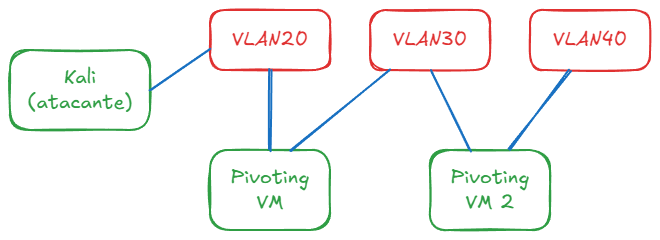
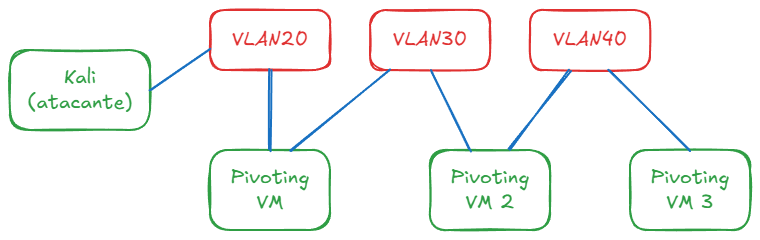
Actualización a apunte de pivoting

diff --git a/_apuntes/2025-07-31-pivoting.md b/_apuntes/2025-07-31-pivoting.md
@@ -11,10 +11,11 @@ vm: https://drive.google.com/drive/folders/10MdL2c8EpwijxsweVVdln4J5d1KG9v9v
 >**Pivoting** es el proceso de usar una máquina comprometida como trampolín para acceder a otras máquinas en la red que serían inaccesibles directamente desde la máquina atacante.
 
 # 💻Práctica
-**Preámbulo**
-Para esta práctica, partimos de las siguientes máquinas:
-- **Pivoting VM** (Credenciales ubuntu/ubuntu)
-- **Pivoting VM 2**
+>[!note] **Preámbulo**:
+>Para esta práctica, partimos de las siguientes máquinas:
+>🔹 **Pivoting VM** (Credenciales ubuntu/ubuntu)
+> 🔹**Pivoting VM 2** (Credenciales ubuntu/Pivoting2341)
+> 🔹**Pivoting VM 3** (Credenciales ubuntu/3412Pivoting)
 
 La idea es simular un entorno como el siguiente
 
@@ -53,16 +54,20 @@ ssh <user>@Ip_proxy -p X -R IpPivoting1:PuertoPiv1:IpLocal:4444
 >Durante esta práctica se lanzarán comandos desde terminales distintas (todas alojadas en la **Kali**). Por favor leer los comentarios adjuntos en cada comando para saber en qué terminal deben ir.
 
 ## 🔎Etapa 1: Reconocimiento de Pivoting VM
+>[!question] Qué terminales hay que tener abiertas antes de comenzar?:
+>→ **Kali** para todos los comandos relacionados a la Kali
+
 
 Con las 3 máquinas configuradas, encendidas y funcionando, hacemos un **escaneo de red desde la terminal Kali**
 ```bash
 #Este comando se ejecuta en la terminal llamada Kali
+ip a
 sudo arp-scan -l -I eth0
 ```
 
-**En mi caso**, la IP para la máquina **Pivoting VM en la red *VLAN20*** es la `10.0.20.5`. 
+**En mi caso**, la IP para la máquina **Pivoting VM en la red *VLAN20*** es la `10.0.20.5`, y la IP de la **Kali** es `10.0.20.4`.
 
-Una vez conocida la IP, nos conectamos mediante ssh **desde la terminal SSH Piv1**
+Una vez conocida la IP, **abrimos una nueva terminal llamada SSH Piv1** donde nos conectamos mediante ssh a la **Pivoting VM**
 ```bash
 #Este comando se ejecuta en la terminal llamada SSH Piv1
 ssh ubuntu@10.0.20.5
@@ -72,14 +77,23 @@ Dentro de la máquina, nos interesa ver si está conectada a otras redes, así q
 
 ![[pivoting_ip_pivoting_vm.png]]
 
+**IPs identificadas hasta ahora**
+
+| Red     | IP          | Máquina     |
+| ------- | ----------- | ----------- |
+| VLAN20  | `10.0.20.4` | Kali        |
+| VLAN 20 | `10.0.20.5` | Pivoting VM |
+| VLAN30  | `10.0.30.4` | Pivoting VM |
 
 ## ⚙Etapa 2: Configuración de túnel
+>[!question] Qué terminales hay que tener abiertas antes de comenzar?:
+>→ **Kali** para todos los comandos relacionados a la Kali
 
 Recordemos que la **Kali** no tiene acceso directo a *VLAN30*, pero **Pivoting VM** sí. Así que el siguiente paso es crear un **túnel o proxy** que redirija el tráfico desde la **Kali** hacia *VLAN30* a través de **Pivoting VM**. 
 
 De esta manera podremos lanzar comandos desde la **Kali** pero que vayan a nombre de **Pivoting VM**. Esto será útil para **escanear la red *VLAN30***.
 
-En primer lugar, ejecutamos el comando:
+En primer lugar, **abrimos una nueva terminal llamada -D 9050** y ejecutamos el comando:
 ```bash
 #Este comando se ejecuta en la terminal llamada "-D 9050"
 ssh -D 9050 ubuntu@10.0.20.5
@@ -103,7 +117,7 @@ ls -la /etc | grep proxychain
 
 En mi caso, el archivo es `proxychains4.conf` → Consultamos este archivo con `cat` o, editamos directamente con `sudo nano` (es importante lanzarlo con `sudo` para que los cambios se guarden).
 
-**¿Qué debemos tener en el archivo?** → Las siguientes líneas deben estar **descomentadas** (que no aparezca el símbolo `#` al principio). Y en la *ProxyList* debe decir *socks5* y apuntar al puerto que abrimos anteriormente.
+**¿Qué debemos tener en el archivo?** → Las siguientes líneas deben estar **descomentadas** (que no aparezca el símbolo `#` al principio). En la *ProxyList* debe decir *socks5* y apuntar al puerto que abrimos anteriormente.
 ```
 dynamic_chain
 proxy_dns
@@ -135,12 +149,20 @@ La salida de este comando debería verse más o menos así:
 
 **SI NO ES EL CASO...**
 
+Probar con este comando
+```bash
+#Este comando se lanza desde la terminal llamada Kali
+sudo proxychains nmap -sT -Pn -n -p 20,80 10.0.30.3-20
+```
+
+**Y SI AUN ASÍ NO FUNCIONA**
+
 Hay alternativas:
 1. Utilizar otra versión de Kali (preferentemente [la máquina compartida en clase](https://drive.google.com/drive/folders/1_sv45Jutib_3Gmp228vTHdC2vdI5UayD)), y empezar desde cero el ejercicio.
 2. Cambiar la versión de `nmap` a otra más antigua que sea compatible con `proxychains`.
 3. **Usar un script que nos devuelva lo que buscamos**.
 
->[!note] Nota:
+>[!note] Consideraciones:
 >Esta etapa (configuración de túnel) es necesaria en este ejercicio porque **no conocemos la IP de Pivoting VM 2 en la *VLAN30***. 
 >Si no fuera el caso, los pasos relacionados con `proxychains` son, en esencia, opcionales, y podríamos pasar directamente a la etapa de **Pivoting**, a menos que quisiéramos ejecutar otros comandos a nombre de **Pivoting VM**.
 
@@ -199,15 +221,29 @@ chmod +x script_proxychains.sh
 
 Ahora solo queda esperar a que detecte la IP de **Pivoting VM 2**. En mi caso, la IP es `10.0.30.5`
 
+
 >[!warning] Importante:
 >Este script también nos mostrará la IP de **Pivoting VM** en la *VLAN30*, por lo cual hay que tenerlas bien identificadas.
 
 Una vez que logramos el objetivo, podemos cerrar la terminal llamada "-D 9050"
 
-## 🦘Etapa 3: Pivoting
-Ahora que conocemos la IP de **Pivoting VM 2**, podemos establecer un **túnel ssh con port forwarding** utilizando el siguiente comando:
+**IPs identificadas hasta ahora**
+
+| Red    | IP          | Máquina       |
+| ------ | ----------- | ------------- |
+| VLAN20 | `10.0.20.4` | Kali          |
+| VLAN20 | `10.0.20.5` | Pivoting VM   |
+| VLAN30 | `10.0.30.4` | Pivoting VM   |
+| VLAN30 | `10.0.30.5` | Pivoting VM 2 |
+
+
+## 🦘Etapa 3: Pivotando a Pivoting VM 2
+>[!question] Qué terminales hay que tener antes de comenzar?:
+>→ **Kali** para todos los comandos relacionados a la Kali
+
+Ahora que conocemos la IP de **Pivoting VM 2**, podemos establecer un **túnel ssh con port forwarding**, para lo cual **abrimos una nueva terminal llamada -L Piv2**, y lanzamos el siguiente comando:
 ```bash
-#Este comando se lanza desde la terminal llamada "-L PIV2"
+#Este comando se lanza desde la terminal llamada "-L Piv2"
 ssh ubuntu@10.0.20.5 -L 2222:10.0.30.5:22
 ```
 🔹 **Donde:**
@@ -230,9 +266,155 @@ En otras palabras, el comando da la siguiente instrucción:
 
 **¿Qué conseguimos con esto?** → Exponer el servicio SSH de **Pivoting VM 2** (que solo es accesible desde **Pivoting VM**) en la máquina **Kali**, en el puerto 2222.
 
-Este paso nos permite pasar al siguiente comando: **Conectar por ssh a la máquina Pivoting VM 2**
+Este paso nos permite pasar al siguiente comando. **Abrimos una nueva terminal llamada SSH PIV2** y lanzamos el comando que nos conectará por *ssh* a la **Pivoting VM 2**
 ```bash
 #Este comando se ejecuta en una nueva terminal llamada "SSH PIV2"
-ssh usuario@localhost -p 2222
+ssh ubuntu@localhost -p 2222
+```
+Este comando pedirá ingresar las credenciales de **Pivoting VM 2**
+
+**Túneles abiertos hasta ahora**
+
+| Puerto | Desde donde conecta  | Hacia dónde conecta |
+| ------ | -------------------- | ------------------- |
+| `2222` | **Kali** (localhost) | **Pivoting VM 2**   |
+
+
+## 🦘Etapa 4: Pivotando hacia Pivoting VM 3
+
+>[!question] Qué terminales hay que tener antes de comenzar?:
+→ **Kali** para todos los comandos relacionados a la Kali
+→ **Túnel a Piv2** donde ejecutamos el comando `ssh ubuntu@10.0.20.5 -L 2222:10.0.30.5:22` para conectar un túnel al ssh de la **Pivoting VM 2** en el puerto `2222` de la **Kali**
+→**SSH Piv2** donde ejecutamos el comando `ssh ubuntu@localhost -p 2222` para conectarnos por *ssh* a la máquina **Pivoting VM 2**
+
+Una vez conectados a **Pivoting VM 2**, analizamos las direcciones IP de la máquina con el comando `ip a`. En mi caso, tiene asignada la IP `10.0.40.4` para la *VLAN40*.
+
+Después será necesario crear un nuevo túnel de proxy, pero ahora para utilizar a la **Pivoting VM 2** como proxy de la **Kali**. Para ello, **abrimos una  nueva terminal llamada -D 9050 Piv2**
+```bash
+#Este comando se lanza en la terminal llamada "-D 9050 Piv2"
+ssh ubuntu@localhost -p 2222 -D 9050
+```
+Pedirá credenciales de **Pivoting VM 2**
+
+Ahora, hacemos el escaneo de red *VLAN40* con el comando
+```bash
+#Este comando se lanza desde la terminal llamada Kali
+proxychains nmap 10.0.40.3-20 -p 22 -sV
 ```
 
+O bien,
+```bash
+#Este comando se lanza desde la terminal llamada Kali
+sudo proxychains nmap -sT -Pn -n -p 20,80 10.0.40.3-20
+```
+
+O bien, utilizando el `script_proxychains.sh` **cambiando los parámetros para que escanee la VLAN40**.
+
+De este escaneo, se obtiene la IP de la máquina **Pivoting VM 3**, que en mi caso es `10.0.40.5`. Ya podemos cerrar la terminal llamada "-D 9050 Piv2".
+![[pivoting_proxychains_en_vm2.png]]
+
+**IPs identificadas hasta ahora**
+
+| Red      | IP          | Máquina           |
+| -------- | ----------- | ----------------- |
+| *VLAN20* | `10.0.20.4` | **Kali**          |
+| *VLAN20* | `10.0.20.5` | **Pivoting VM**   |
+| *VLAN30* | `10.0.30.4` | **Pivoting VM**   |
+| *VLAN30* | `10.0.30.5` | **Pivoting VM 2** |
+| *VLAN40* | `10.0.40.4` | **Pivoting VM 2** |
+| *VLAN40* | `10.0.40.5` | **Pivoting VM 3** |
+
+
+**En una nueva terminal llamada -L Piv3 pt 80**, abrimos el túnel para conectar la **Kali** al puerto 80 de la **Pivoting VM 3** desde el puerto 8081 en la **Kali**.
+```bash
+#Este comando se lanza desde la terminal llamada "-L Piv3 pt 80"
+ssh ubuntu@localhost -p 2222 -L 8081:10.0.40.5:80
+```
+Este comando pedirá las credenciales de **Pivoting VM 2**
+
+**Túneles abiertos hasta ahora**
+
+| Puerto | Desde donde conecta  | Hacia dónde conecta                                         |
+| ------ | -------------------- | ----------------------------------------------------------- |
+| `2222` | **Kali** (localhost) | **Pivoting VM 2** (puerto 22)                               |
+| `8081` | **Kali** (localhost) | **Pivoting VM 3** (puerto 80) a través de **Pivoting VM 2** |
+
+Entonces, ahora podemos abrir la web entrando al enlace `localhost:8081` desde el navegador.
+
+>[!note] Nota:
+>Para poder hacer fuzzing necesitamos volver a tener el proxy activado.
+>```bash
+>#Este comando se lanza en la terminal llamada "-D 9050" y pide las credenciales de Pivoting 2
+>ssh ubuntu@localhost -p 2222 -D 9050
+>```
+
+Para abrir el puerto 80 de **Pivoting VM 2** en la **Kali**
+```bash
+#Este comando se lanza desde la terminal llamada "-L Piv3"
+ssh ubuntu@localhost -p 2222 -L 8080:10.0.30.5:80
+```
+Pedirá credenciales de **Pivoting VM 2**
+
+**Túneles abiertos hasta ahora**
+
+| Puerto | Desde donde conecta  | Hacia dónde conecta                                         |
+| ------ | -------------------- | ----------------------------------------------------------- |
+| `2222` | **Kali** (localhost) | **Pivoting VM 2** (puerto 22)                               |
+| `8081` | **Kali** (localhost) | **Pivoting VM 3** (puerto 80) a través de **Pivoting VM 2** |
+| `8080` | **Kali** (localhost) | **Pivoting VM 2** (puerto 80)                               |
+
+**Abrimos una terminal nueva con el nombre -L Piv3 pt 22** para abrir el puerto 22 de la **Pivoting VM 3** en la **Kali**
+```bash
+#Este comando se lanza desde la terminal llamada "-L Piv3 pt 22"
+ssh ubuntu@localhost -p 2222 -L 2223:10.0.40.5:22
+```
+Pedirá las credenciales de **Pivoting VM 2**
+
+**Túneles abiertos hasta ahora**
+
+| Puerto | Desde donde conecta  | Hacia dónde conecta                                         |
+| ------ | -------------------- | ----------------------------------------------------------- |
+| `2222` | **Kali** (localhost) | **Pivoting VM 2** (puerto 22)                               |
+| `8081` | **Kali** (localhost) | **Pivoting VM 3** (puerto 80) a través de **Pivoting VM 2** |
+| `8080` | **Kali** (localhost) | **Pivoting VM 2** (puerto 80)                               |
+| `2223` | **Kali** (localhost) | **Pivoting VM 3** (puerto 22) a través de **Pivoting VM 2** |
+
+Una vez establecidos los túneles, ya podemos conectarnos a **Pivoting VM 3**, en una **terminal nueva llamada SSH Piv3**
+```bash
+#Este comando se lanza en la terminal "SSH Piv3"
+ssh ubuntu@localhost -p 2223
+```
+Pide credenciales de **Pivoting VM 3** (3412Pivoting)
+
+# 📝Cómo pasar archivos entre máquinas
+
+**En la máquina que contiene el archivo que queremos obtener** (la **Pivoting VM 3** en este caso), ejecutamos el siguiente comando para abrir un servidor con python.
+```bash
+#Este comando se lanza en la terminal ssh Piv3
+sudo python3 -m http.server 443
+```
+
+Luego, **en la Kali**, lanzamos el comando para descargar el archivo, donde el puerto debe coincidir con el puerto configurado en el túnel de la máquina correspondiente.
+```bash
+#Este comando se lanza en la terminal Kali
+wget http://localhost:2223/contraseña.txt/
+```
+
+
+# 🔄Túnel reverso
+```bash
+#Este comando se lanza en la terminal -R 4444 Piv2
+ssh ubuntu@localhost -p 2223 -R 10.0.40.5:4444:10.0.20.4:80
+```
+Pedirá las credenciales de **Pivoting VM 2**
+
+```ssh
+#Este se lanza desde Kali
+python3 -m http.server 80
+```
+
+Solicitar documentos a la **Kali** desde la **Pivoting VM 2** o la **Pivoting VM 3** 
+```
+#Este comando se lanza en la terminnal -R 4444 Piv3
+wget http://10.0.40.4:4444/movimientos.txt
+```
